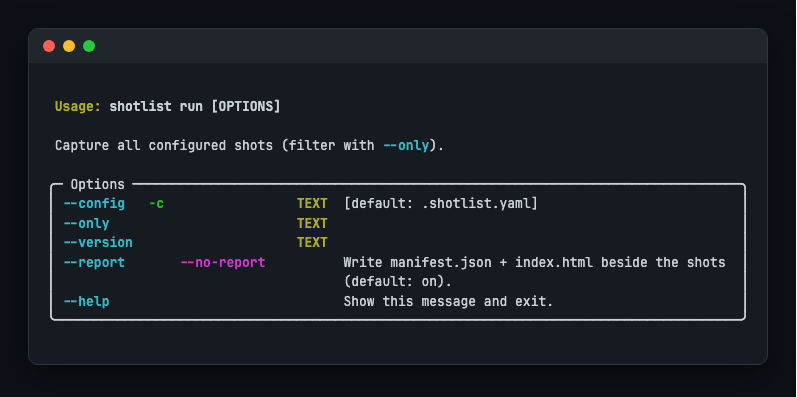
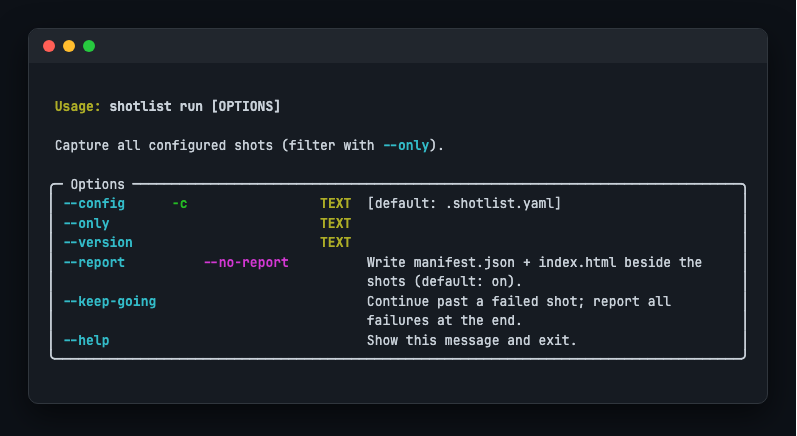
dogfood: optimize + rendered session

Changed region(s): [[0.0602, 0.2116, 0.9335, 0.8463], [0.0301, 0.0605, 0.9636, 0.1511], [0.0301, 0.9068, 0.9636, 0.937]]

diff --git a/docs/screenshots/index.html b/docs/screenshots/index.html
@@ -39,10 +39,10 @@ figcaption { padding: .75rem .9rem; }
 <body>
 <header>
 <h1>shotlist CLI screenshots</h1>
-<div class="sub">2 shots · generated 2026-07-01T23:50:48Z</div>
+<div class="sub">4 shots · generated 2026-07-06T23:48:27Z</div>
 </header>
 <div class="grid">
-<figure><img src="01-the-shotlist-cli.png" alt="shotlist --help showing the init, validate, run, and check commands" loading="lazy"/><figcaption><span class="name">The shotlist CLI</span><span class="badge">cli</span><p class="alt">shotlist --help showing the init, validate, run, and check commands</p><p class="source"><code>.venv/bin/shotlist --help</code></p></figcaption></figure><figure><img src="02-run-options.png" alt="shotlist run options: --config, --only, and --version" loading="lazy"/><figcaption><span class="name">Run options</span><span class="badge">cli</span><p class="alt">shotlist run options: --config, --only, and --version</p><p class="source"><code>.venv/bin/shotlist run --help</code></p></figcaption></figure>
+<figure><img src="01-the-shotlist-cli.png" alt="shotlist --help showing the init, validate, run, and check commands" loading="lazy"/><figcaption><span class="name">The shotlist CLI</span><span class="badge">cli</span><p class="alt">shotlist --help showing the init, validate, run, and check commands</p><p class="source"><code>.venv/bin/shotlist --help</code></p></figcaption></figure><figure><img src="02-run-options.png" alt="shotlist run options: --config, --only, and --version" loading="lazy"/><figcaption><span class="name">Run options</span><span class="badge">cli</span><p class="alt">shotlist run options: --config, --only, and --version</p><p class="source"><code>.venv/bin/shotlist run --help</code></p></figcaption></figure><figure><img src="03-session-export.png" alt="Step 1: set a variable in the session shell" loading="lazy"/><figcaption><span class="name">session-export</span><span class="badge">session</span><p class="alt">Step 1: set a variable in the session shell</p><p class="source"><code>export GREETING=&#x27;state carries across steps&#x27;</code></p></figcaption></figure><figure><img src="04-session-echo.png" alt="Step 2: a later command sees it — one persistent shell" loading="lazy"/><figcaption><span class="name">session-echo</span><span class="badge">session</span><p class="alt">Step 2: a later command sees it — one persistent shell</p><p class="source"><code>echo $GREETING</code></p></figcaption></figure>
 </div>
 </body>
 </html>

diff --git a/docs/test-evidence.md b/docs/test-evidence.md
@@ -19,4 +19,20 @@ shotlist run options: --config, --only, and --version
 
 `.venv/bin/shotlist run --help`
 
+### Session Export
+
+<img src="docs/screenshots/03-session-export.png" width="100%" alt="Step 1: set a variable in the session shell"/>
+
+Step 1: set a variable in the session shell
+
+`export GREETING='state carries across steps'`
+
+### Session Echo
+
+<img src="docs/screenshots/04-session-echo.png" width="100%" alt="Step 2: a later command sees it — one persistent shell"/>
+
+Step 2: a later command sees it — one persistent shell
+
+`echo $GREETING`
+
 <!-- shotlist:end -->

diff --git a/README.md b/README.md
@@ -199,6 +199,14 @@ on its own [`.shotlist.yaml`](.shotlist.yaml) and spliced in automatically.
 
 <img src="docs/screenshots/02-run-options.png" width="100%" alt="shotlist run options: --config, --only, and --version"/>
 
+### session export
+
+<img src="docs/screenshots/03-session-export.png" width="100%" alt="Step 1: set a variable in the session shell"/>
+
+### session echo
+
+<img src="docs/screenshots/04-session-echo.png" width="100%" alt="Step 2: a later command sees it — one persistent shell"/>
+
 <!-- shotlist:end -->
 
 ## Use with Claude